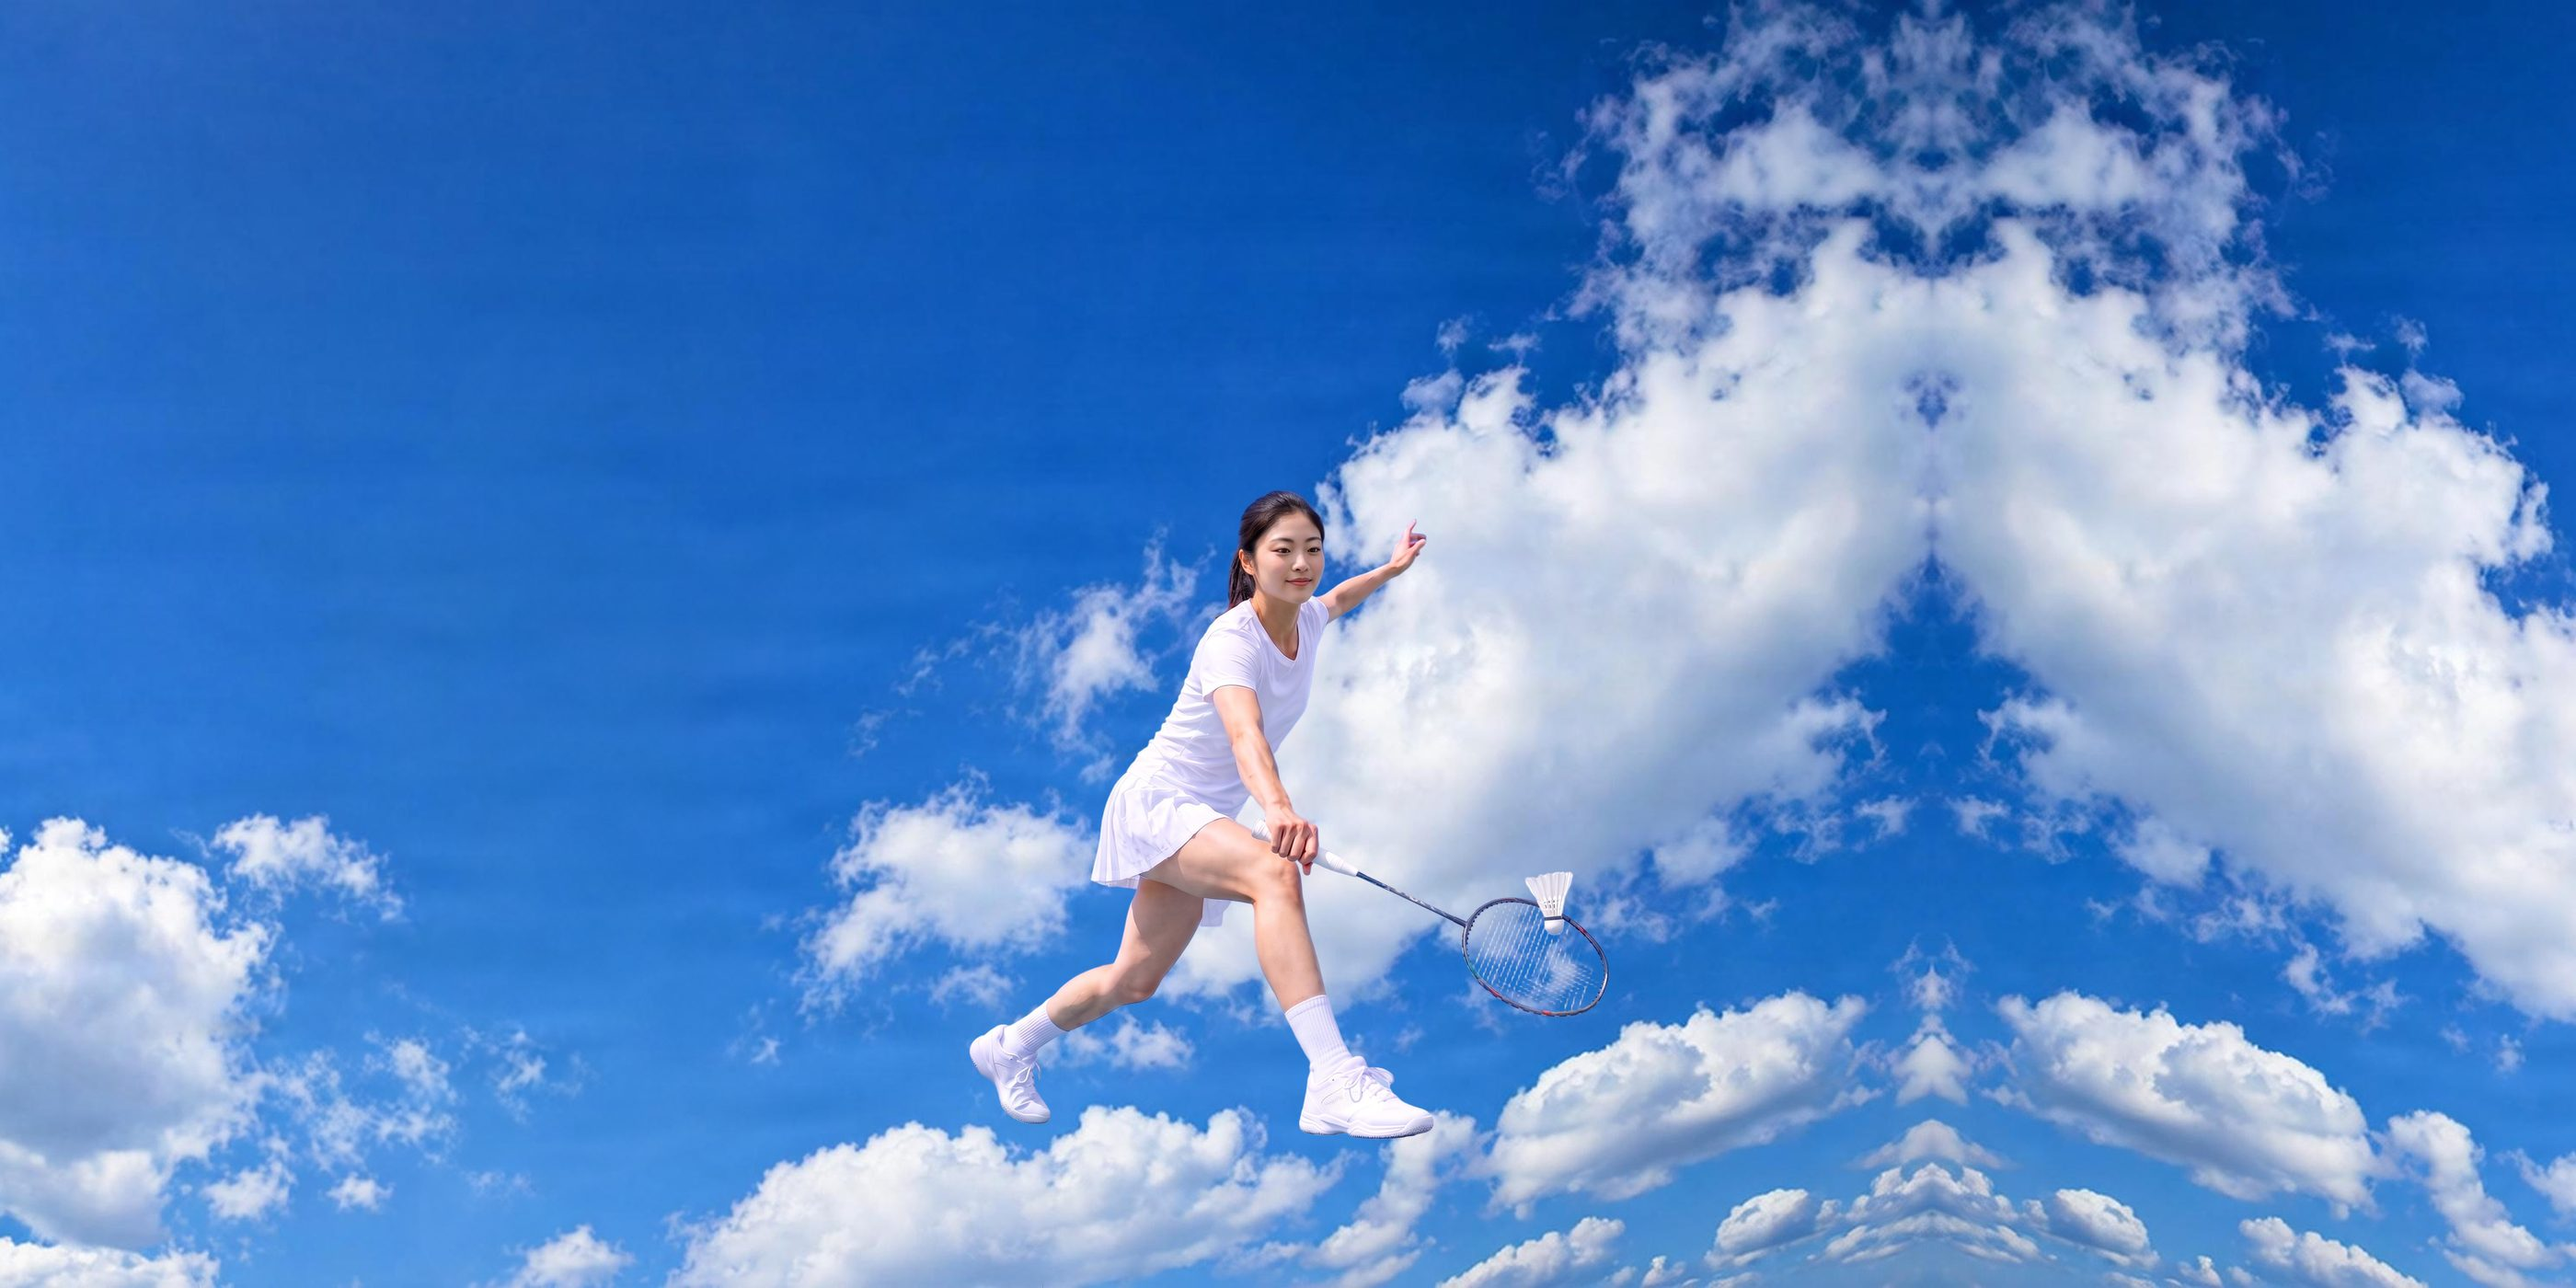
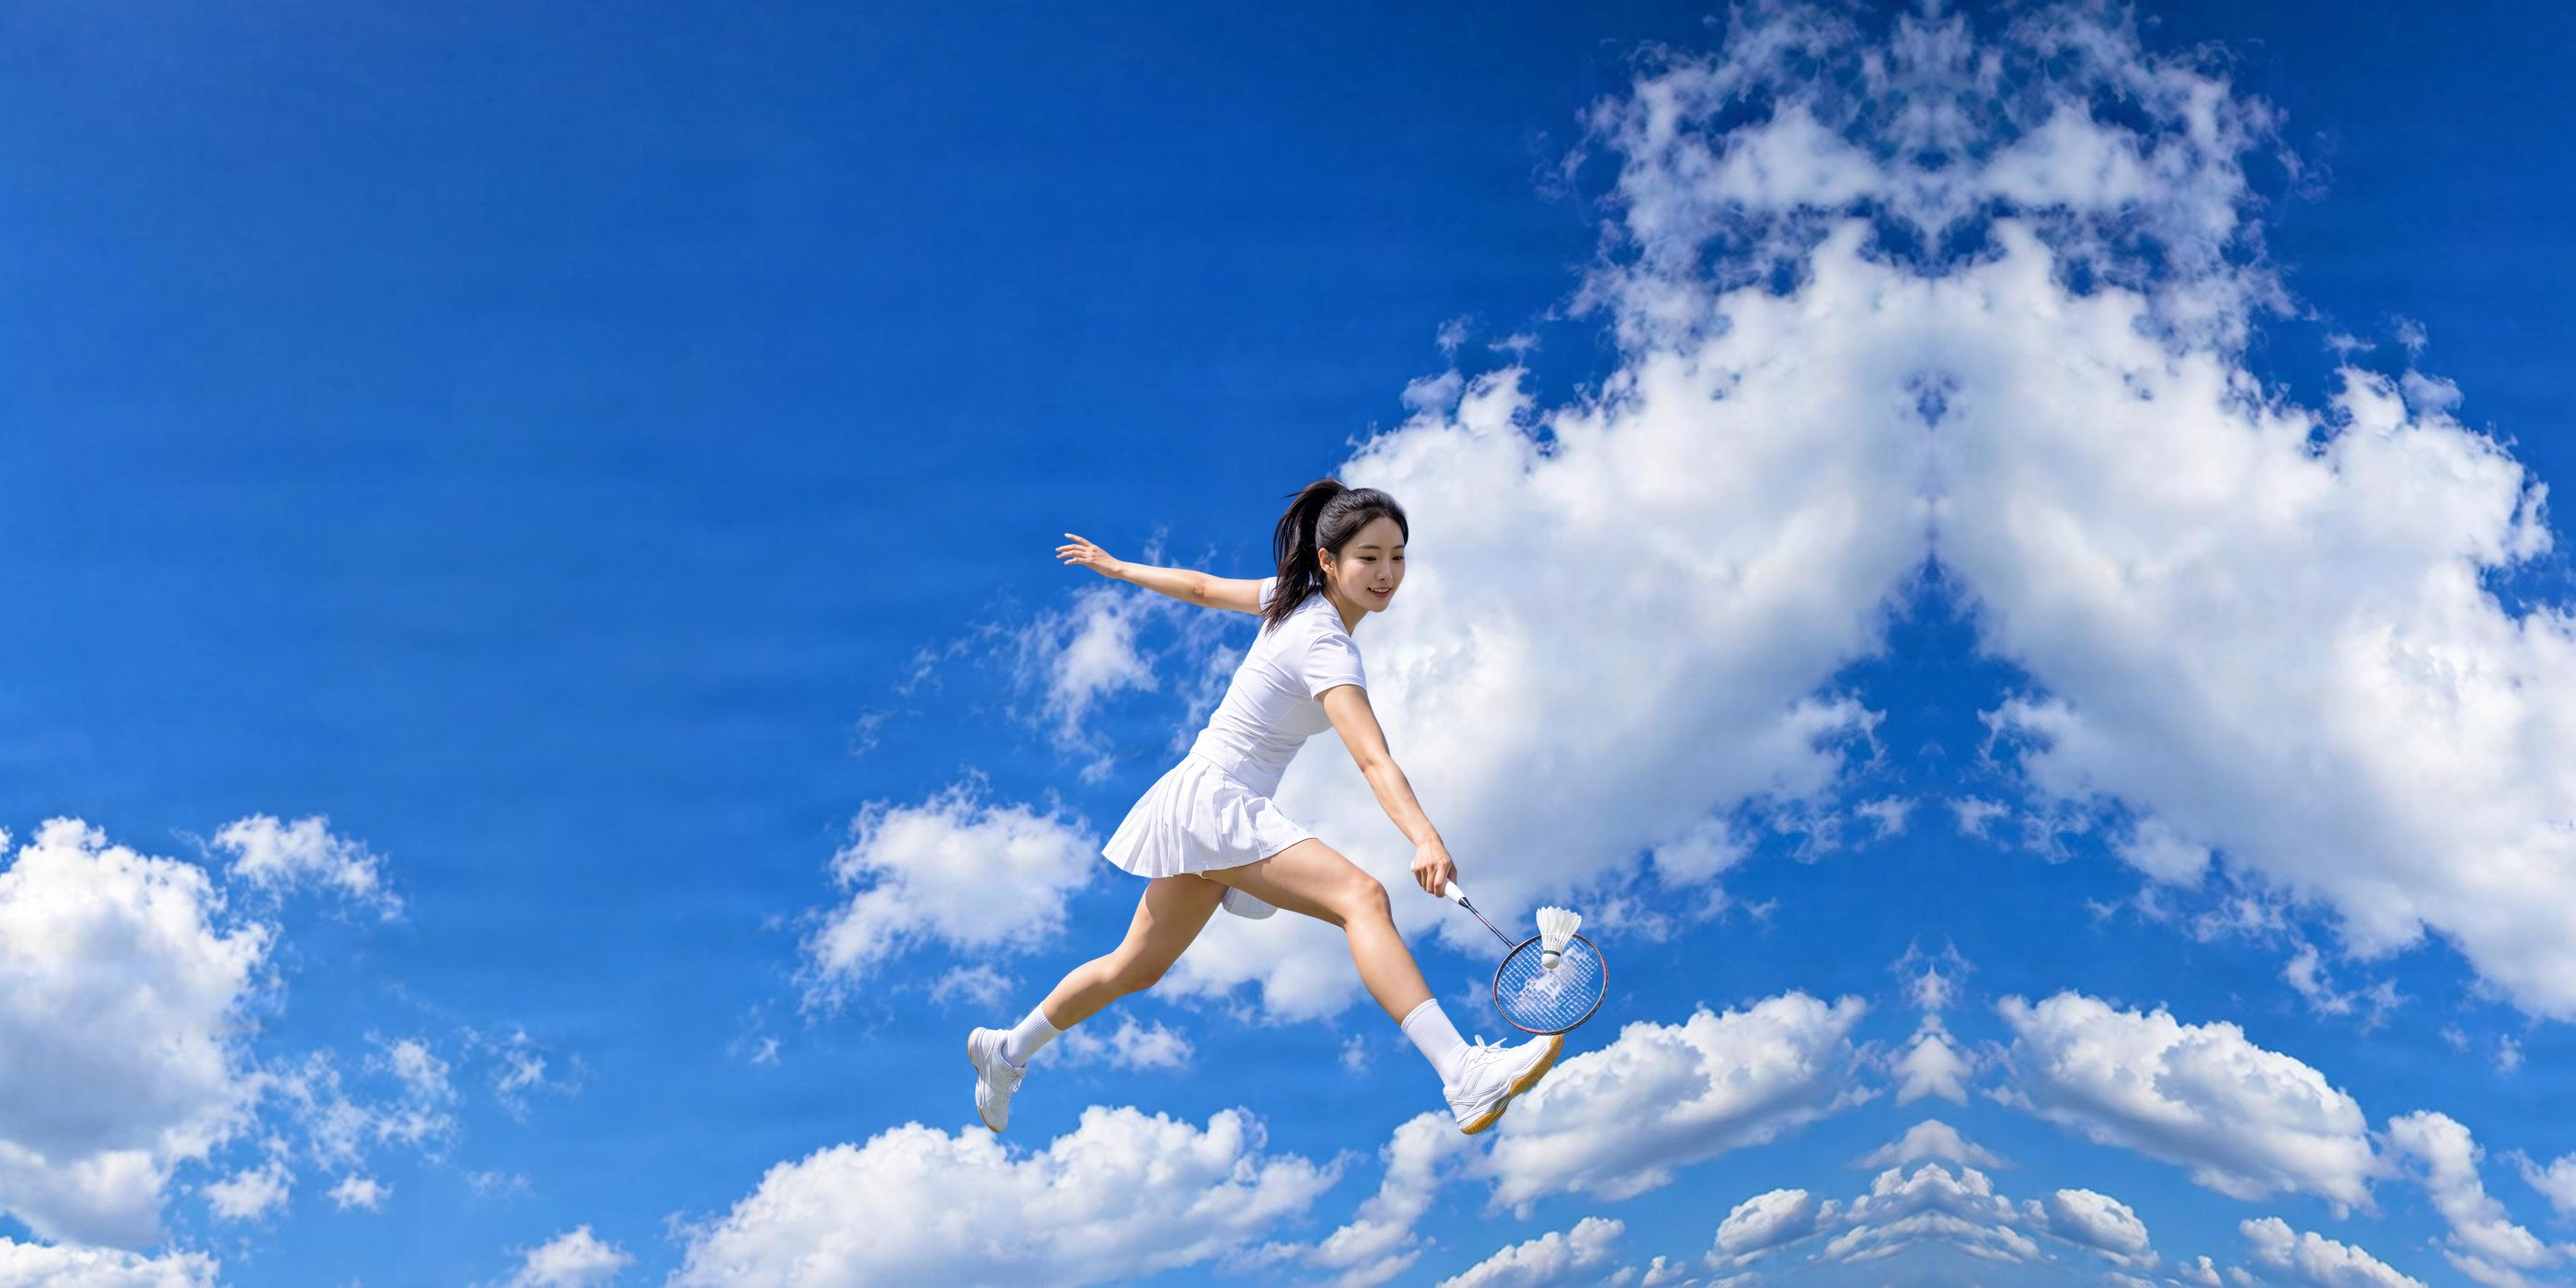
홈 오른쪽 칸 다시 Academy · 레슨(사용자 2026-10-31) + 여자 사진 새로(남자 사진 기준 생성, 공중에서 낮게 뻗어 받기 · 같은 머리 크기 · 같은 높이), -tall 도 새로 — 57개 측정 가려짐 0 · 글자 칸 안

Changed region(s): [[0.4039, 0.3686, 0.6214, 0.8907], [0.3729, 0.7986, 0.4039, 0.8907]]

diff --git a/index.html b/index.html
@@ -31,11 +31,12 @@
 <header class="hero">
   <!-- 2026-10-22 센터 요청 — 배드민턴 칸은 레슨 말고 대관으로.
        2026-10-27 피클볼은 뺌(센터가 피클볼을 안 함) — 오른쪽 칸은 배드민턴 아카데미(레슨), 사진은 왼쪽 칸과 같은 하늘 · 구도의 여자 선수 점프 스매시.
-       2026-10-27 사용자: 오른쪽 칸 Academy → RENTAL = 공간대여(센터 통대관, space.html) — 왼쪽 칸(코트 대관)과 안 겹치게.
+       (2026-10-27 오른쪽 칸을 RENTAL · 공간대여로 바꿨다가 2026-10-31 사용자 요청으로 다시 Academy · 레슨으로.)
        사진 = hero-home-man / hero-home-woman — 2:1 파노라마(2800×1400, 양옆 · 위를 하늘로 넓힘)에 두 사람 머리 크기를 같게(높이의 8.4%), 아래에 붙임:
        칸이 사진보다 좁으면 늘 높이에 맞춰져서 마우스를 올려 칸이 넓어져도 · 울트라와이드에서도 머리 위치가 그대로 — 큰 글자(.panel .word, 최대 17vh)에 안 가림.
        두 사람 위치 같게(사용자 2026-10-27 '둘 다 같은 위치, 여자도 공중에') — 머리 크기 · 머리끝 높이(아래에서 62%) 같음, 여자도 발 아래 하늘이 보이게 떠 있음.
-       여자 사진은 원본에서 사람만 오려(birefnet) 남자 사진의 하늘(사람 지운 것)의 다른 부분 위에 올림 — 두 칸 하늘 톤이 같게. 세로 태블릿 · 정사각에 가까운 창(641px 이상 · 가로가 세로의 1.25배 이하)은 칸이 좁아 파노라마면 양옆이 잘림 → -tall(2:3, 사람을 작게 · 위에 하늘) 사용 -->
+       여자 사진(2026-10-31 새로 — 남자 사진을 넣어 같은 조명 · 옷으로 생성한 '공중에서 낮게 뻗어 받기')은 사람만 오려(birefnet)
+       남자 사진의 하늘(사람 지운 것)의 다른 부분 위에 올림 — 두 칸 하늘 톤이 같게. 세로 태블릿 · 정사각에 가까운 창(641px 이상 · 가로가 세로의 1.25배 이하)은 칸이 좁아 파노라마면 양옆이 잘림 → -tall(2:3, 사람을 작게 · 위에 하늘) 사용 -->
   <a class="panel" href="badminton.html#rental" aria-label="배드민턴 코트 대관으로">
     <picture><source media="(min-width:641px) and (max-aspect-ratio:5/4)" srcset="images/hero-home-man-tall.jpg"><img src="images/hero-home-man.jpg" alt="점프 스매시를 하는 배드민턴 선수" style="object-position:center bottom"></picture>
     <div class="word">Badminton</div>
@@ -44,11 +45,11 @@
       <span class="go">→</span>
     </div>
   </a>
-  <a class="panel" href="space.html" aria-label="공간대여(센터 통대관)로">
+  <a class="panel" href="badminton.html#academy" aria-label="배드민턴 아카데미(레슨)로">
     <picture><source media="(min-width:641px) and (max-aspect-ratio:5/4)" srcset="images/hero-home-woman-tall.jpg"><img src="images/hero-home-woman.jpg" alt="공중에서 낮게 뻗어 셔틀콕을 받는 여자 배드민턴 선수" style="object-position:center bottom"></picture>
-    <div class="word">Rental</div>
+    <div class="word">Academy</div>
     <div class="meta">
-      <div class="glass"><div class="k">— SPACE · RENTAL</div><div class="v">센터 전체를 하나의 공간으로<br>기업 · 단체 통대관</div></div>
+      <div class="glass"><div class="k">— ACADEMY · LESSON</div><div class="v">성인 · 유소년<br>배드민턴 아카데미</div></div>
       <span class="go">→</span>
     </div>
   </a>
